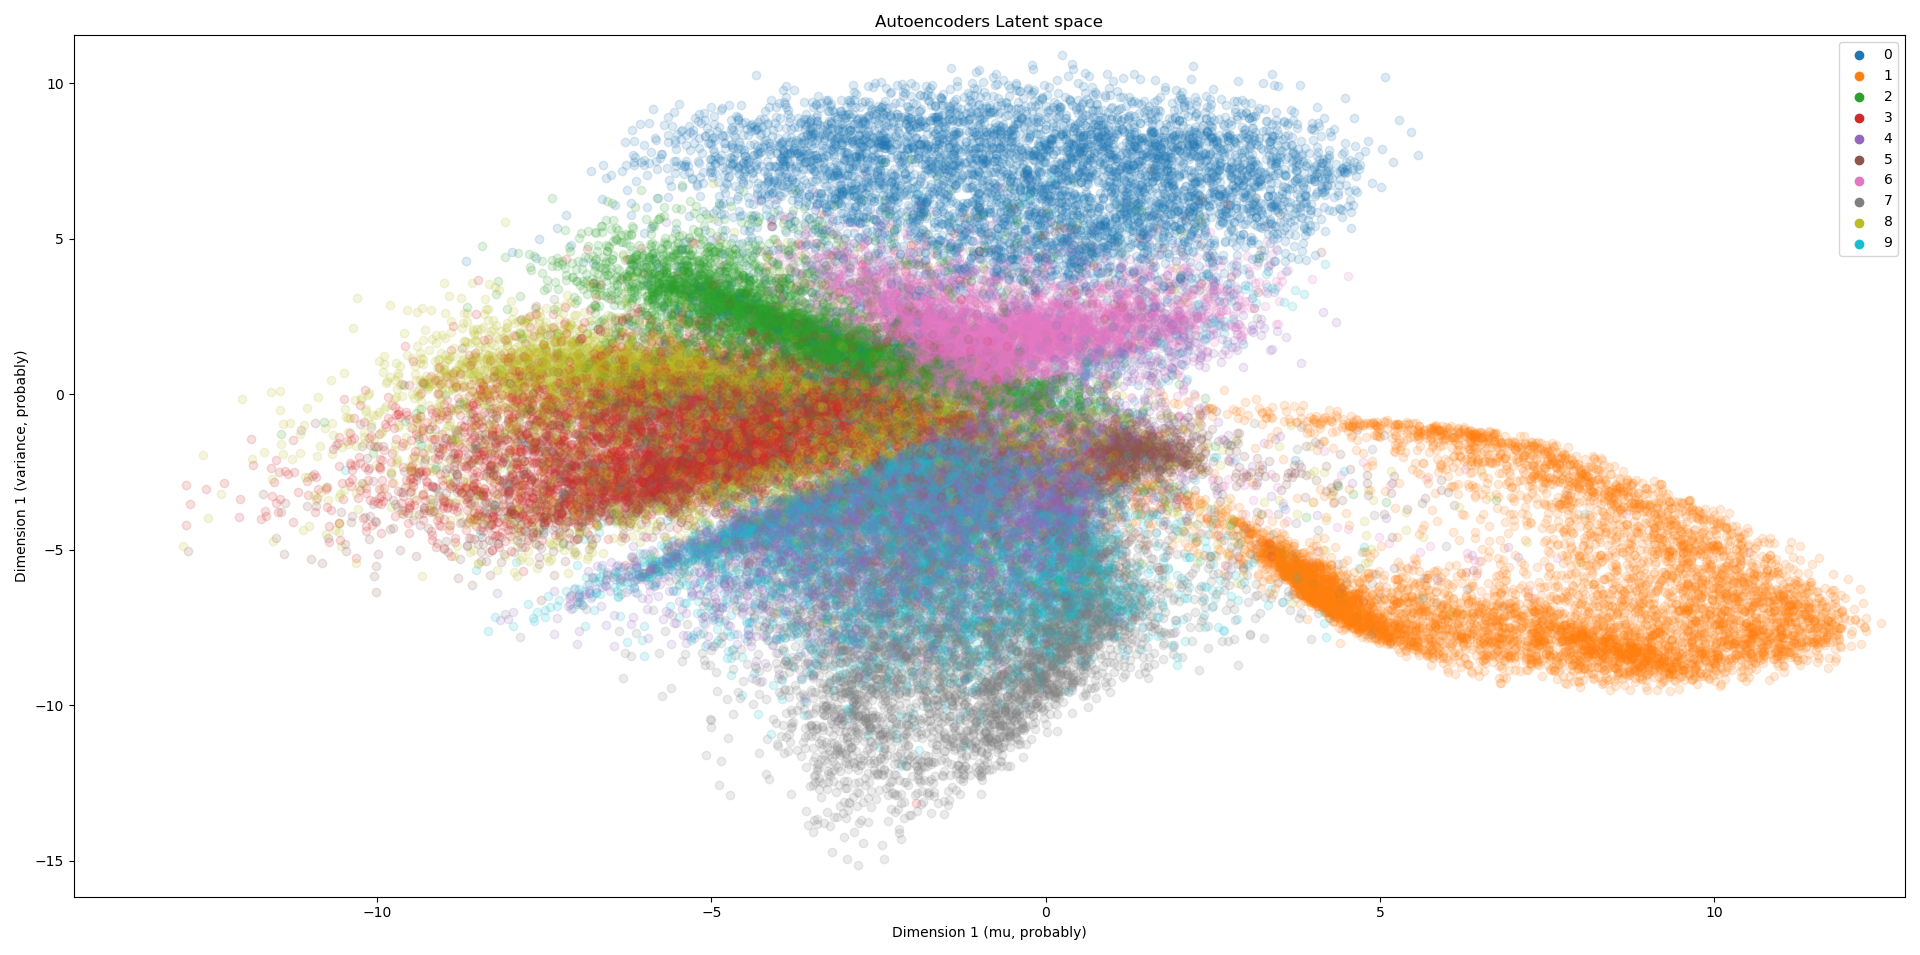
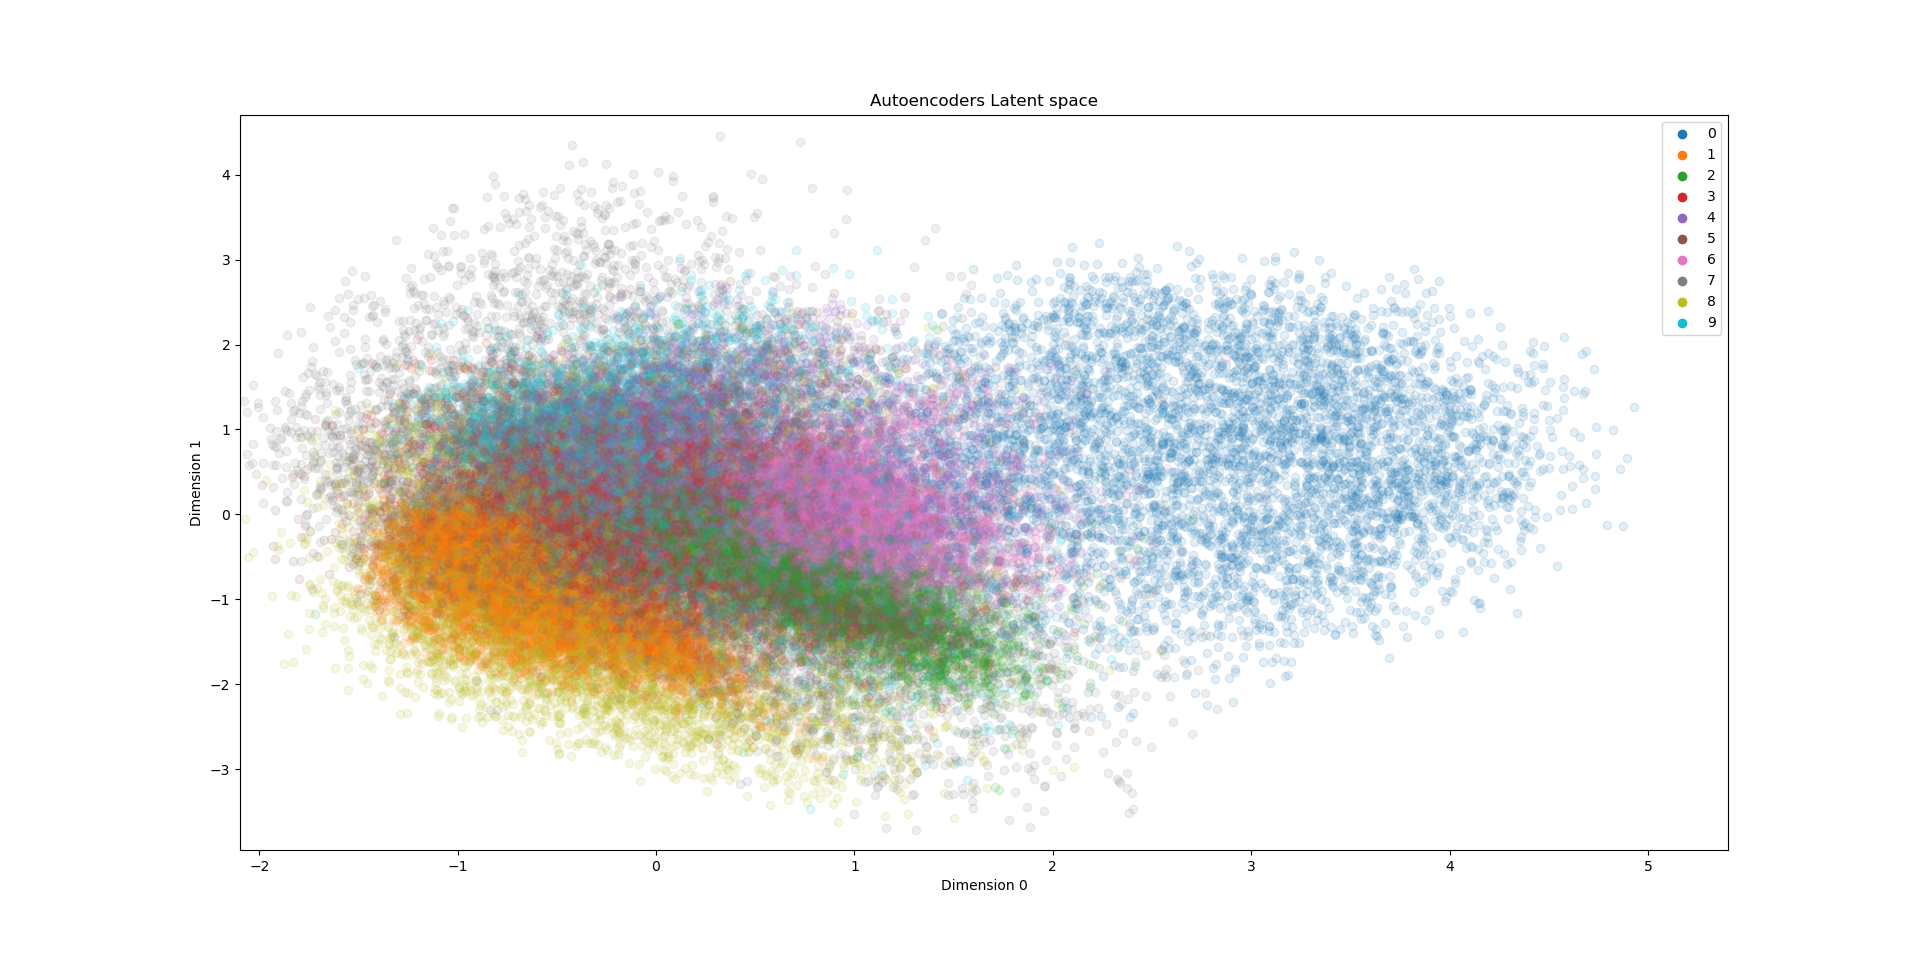
More experimentation.

diff --git a/HW4/HW4_code_solutions/autoencoders.py b/HW4/HW4_code_solutions/autoencoders.py
@@ -46,7 +46,7 @@ def load_mnist_dataset(path="data/mnist_data/", digit=None, batchSize=1):
     """
     trans = transforms.Compose([
         transforms.ToTensor(),
-        transforms.Normalize((0.1307,), (0.3081,))
+        #transforms.Normalize((0.1307,), (0.3081,))
     ])
     train = datasets.MNIST(path, train=True, download=True, transform=trans)
     test = datasets.MNIST(path, train=False, transform=trans)
@@ -219,7 +219,7 @@ def test(dataLoader, model, optimizer):
             data = data.to(DEVICE)
             testLoss += model.loss(data).item()
     testLoss /= len(dataLoader.dataset)
-    print(f"Test set loss: {testLoss:.4f}")
+    print(f"Test set loss: {testLoss:.8f}")
 
 
 def learn(trainDataLoader, testDataLoader, model, epochs, learningRate, verbosity=20):
@@ -369,7 +369,7 @@ def A3():
 
 if __name__ == "__main__":
     A3()
-
+    pass
 
 
 
@@ -398,40 +398,20 @@ class MyAutoencoder(MNISTAutoencoder):
         )
 
     def forward_mu(self, x):
-        return self.encode(x.view(-1, self.imgSize))
-
-
-class MyAutoencoder(MNISTAutoencoder):
-    def __init__(self, imgSize=28*28, h1=128, h2=64, latSize=2, **kwargs):
-        super().__init__(
-            encode = nn.Sequential(
-                nn.Linear(imgSize, h1),
-                nn.ReLU(),
-                nn.Linear(h1, h2),
-                nn.ReLU(),
-                nn.Linear(h2, latSize)
-            ),
-            decode = nn.Sequential(
-                nn.Linear(latSize, h2),
-                nn.ReLU(),
-                nn.Linear(h2, h1),
-                nn.Linear(h1, imgSize)
-            ),
-            imgSize = imgSize,
-            **kwargs
-        )
-
-    def forward_mu(self, x):
+        """Get the latent space layer back."""
         return self.encode(x.view(-1, self.imgSize))
 
 
 
-
-def plot_latent(dataLoader, model):
+def plot_latent(dataLoader, model, vectors=(0,1)):
+    """For 2D latent spaces 
+    """
 
     digits = range(10)
     colors = [cm.tab10(digit/10.0) for digit in digits]
     coldict = {d:c for d, c in zip(digits, colors)}
+
+    fig, axes = plt.subplots()
 
     # fake legend
     for d, c in zip(digits, colors):
@@ -445,40 +425,37 @@ def plot_latent(dataLoader, model):
             mu = model.forward_mu(data.view(-1, 784))
             for digit, color in zip(digits, colors):
                 digitMask = labels == digit
-                plt.scatter(mu[:,0][digitMask], mu[:,1][digitMask],
-                            c=[color], alpha=0.15)
+                x, y = vectors
+                plt.scatter(mu[:, x][digitMask], mu[:, y][digitMask],
+                            c=[color], alpha=0.12)
 
     plt.title("Autoencoders Latent space")
-    plt.xlabel("Dimension 1 (mu, probably)")
-    plt.ylabel("Dimension 1 (variance, probably)")
+    plt.xlabel(f"Dimension {vectors[0]}")
+    plt.ylabel(f"Dimension {vectors[1]}")
     plt.xlim(-15, 15)
     plt.ylim(-5, 5)
     plt.show()
 
 
 
-def extra_autoencoder(epochs=10, learningRate=1e-3, batchSize=256):
+def extra_autoencoder(epochs=10, learningRate=1e-3, batchSize=1024):
     trainLoader, testLoader = load_mnist_dataset(batchSize=batchSize)
 
-    hiddenDim, latDim = 64, 2
+    hiddenDim, latDim = 400, 3
     AC = MyAutoencoder(hiddenSize=hiddenDim, latSize=latDim).to(DEVICE)
     learn(trainLoader, testLoader, AC, epochs, learningRate)
     fig, axes = plot_reconstructions(trainLoader, AC)
-    fig.suptitle("Digit reconstruction, non-linear \n"
-                 f"(h={latDim}, Nbatch={batchSize}, epochs={epochs}, "
+    fig.suptitle("Digit reconstruction, non-linear (my autoencoder) \n"
+                 f"(h={hiddenDim}, latDim={latDim}, Nbatch={batchSize}, epochs={epochs}, "
                  f"lr={learningRate})")
     plt.show()
 
     plot_latent(trainLoader, AC)
     plt.show()
+    plot_latent(trainLoader, AC, (0, 2))
+    plt.show()
+    plot_latent(trainLoader, AC, (1, 2))
+    plt.show()
 
 
 #extra_autoencoder()
-
-
-
-
-
-
-        
-
